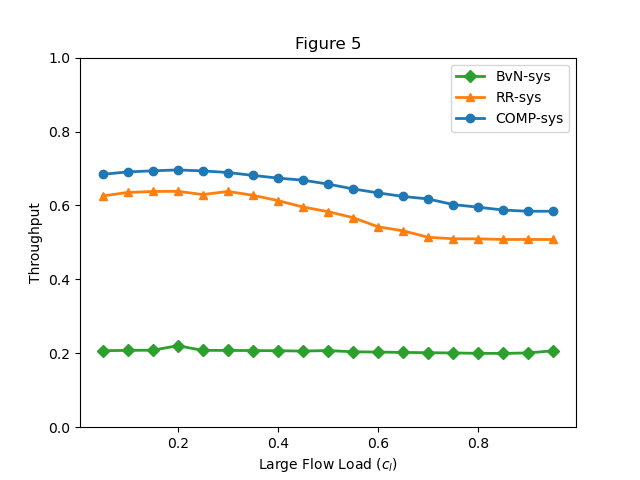
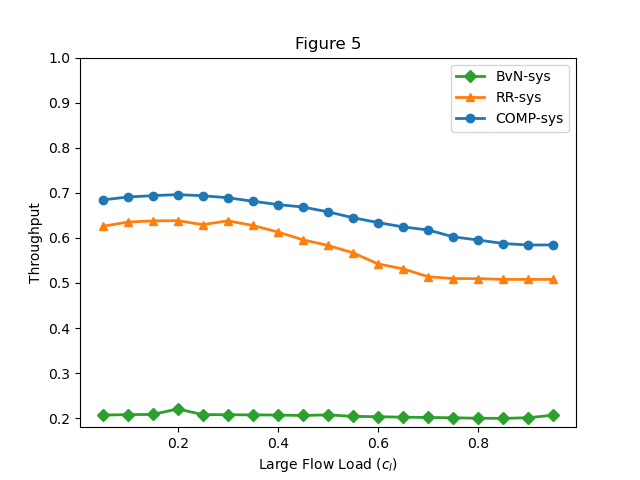
updated README.md figures and data

diff --git a/src/testing_functions.py b/src/testing_functions.py
@@ -24,7 +24,7 @@ def __float_as_string(number):
  Convert :param number to a string without the decimal point
    """
     number_str = str(number)
-    #Remove the decimal point
+    # Remove the decimal point
     if '.' in number_str:
         number_str = number_str.replace('.', '')
     return number_str
@@ -39,15 +39,15 @@ def run_test_of_total_flow_number_change(directory,
                                          given_range=(4, 16384, 1.3)
                                          ):
     """
-    This function runs the expiremnet
-    :param directory:
-    :param large_ratio:
-    :param large_load_ratio:
-    :param n:
-    :param rd:
-    :param r:
-    :param given_range:
-    :return:
+    This function tests our three systems with different total flow numbers and runs this for `number_of_runs` times
+    :param directory: directory to save the result to
+    :param large_ratio:large flow number ratio, that this large_flow_num= np.ceil(large_ratio*total_flows)
+    :param large_load_ratio: the ratio of the load of the large flows
+    :param n: number of nodes\network size
+    :param rd: Demand aware reconfiguration time
+    :param r: transmission rate
+    :param given_range: (start, end, coefficients) for the `power_range` function
+    :return: Nothing. Writes results to file
     """
     net = NetworkEval(n=n, rd=rd, r=r)
     (start, stop, coff) = given_range
@@ -56,45 +56,69 @@ def run_test_of_total_flow_number_change(directory,
     full_results = multi_run_tests(net, large_ratio, large_load_ratio,
                                    x_values, processor_to_use, number_of_runs, test_types[0])
     with open(os.path.join(directory, f"test_{test_types[0]}_LR{__float_as_string(large_ratio)}"
-                                      f"_LLR{__float_as_string(large_load_ratio)}_n{__float_as_string(n)}.json"), 'w') as f:
+                                      f"_LLR{__float_as_string(large_load_ratio)}_n{__float_as_string(n)}.json"),
+              'w') as f:
         json.dump(full_results, f, sort_keys=True, indent=4,
                   ensure_ascii=False, cls=JsonSerialize)
 
 
 def run_test_of_large_flow_load_change(directory,
                                        large_ratio=0.2,
-                                       large_flow_number=64,
+                                       flow_number=64,
                                        n=64,
                                        rd=0.01,
                                        r=10000000000,
                                        given_range=(0.05, 0.95, 19)
                                        ):
+    """
+    This function tests our three systems with different large flow load values and runs this for `number_of_runs` times
+    :param directory: directory to save the result to
+    :param large_ratio:large flow number ratio, that this large_flow_num= np.ceil(large_ratio*total_flows)
+    :param flow_number: the total number of flows
+    :param n: number of nodes\network size
+    :param rd: Demand aware reconfiguration time
+    :param r: transmission rate
+    :param given_range: (start, end, steps) for the `np.linspace` function
+    :return: Nothing. Writes results to file
+    """
     net = NetworkEval(n=n, rd=rd, r=r)
     (start, stop, steps) = given_range
     x_values = np.linspace(start, stop, steps)
     full_results = multi_run_tests(net, large_ratio, x_values,
-                                   large_flow_number, processor_to_use, number_of_runs, test_types[2])
+                                   flow_number, processor_to_use, number_of_runs, test_types[2])
     with open(os.path.join(directory, f"test_{test_types[2]}_LR{__float_as_string(large_ratio)}"
-                                      f"_FN{__float_as_string(large_flow_number)}_n{__float_as_string(n)}.json"), 'w') as f:
+                                      f"_FN{__float_as_string(flow_number)}_n{__float_as_string(n)}.json"), 'w') as f:
         json.dump(full_results, f, sort_keys=True, indent=4,
                   ensure_ascii=False, cls=JsonSerialize)
 
 
 def run_test_of_large_flow_ratio_change(directory,
                                         large_load_ratio=0.7,
-                                        large_flow_number=64,
+                                        flow_number=64,
                                         n=64,
                                         rd=0.01,
                                         r=10000000000,
                                         given_range=(0.05, 0.95, 19)
                                         ):
+    """
+    This function tests our three systems with different large flow number ratio values and runs this for
+     `number_of_runs` times
+    :param directory: directory to save the result to
+    :param large_load_ratio:the ratio of the load of the large flows
+    :param flow_number: the total number of flows
+    :param n: number of nodes / network size
+    :param rd: Demand aware reconfiguration time
+    :param r: transmission rate
+    :param given_range: (start, end, steps) for the `np.linspace` function
+    :return: Nothing. Writes results to file
+    """
     net = NetworkEval(n=n, rd=rd, r=r)
     (start, stop, steps) = given_range
     x_values = np.linspace(start, stop, steps)
     full_results = multi_run_tests(net, x_values, large_load_ratio,
-                                   large_flow_number, processor_to_use, number_of_runs, test_types[1])
+                                   flow_number, processor_to_use, number_of_runs, test_types[1])
     with open(os.path.join(directory, f"test_{test_types[1]}_LLR{__float_as_string(large_load_ratio)}"
-                                      f"_FN{__float_as_string(large_flow_number)}_n{__float_as_string(n)}.json"), 'w') as f:
+                                      f"_FN{__float_as_string(flow_number)}_n{__float_as_string(n)}.json"), 'w') as f:
         json.dump(full_results, f, sort_keys=True, indent=4,
                   ensure_ascii=False, cls=JsonSerialize)
 
@@ -102,18 +126,3 @@ def run_test_of_large_flow_ratio_change(directory,
 number_of_runs = 28
 processor_to_use = multiprocessing.cpu_count() - 1
 test_types = ("flow_number", "large_flow_ratio", "large_flow_load")
-
-#if __name__ == '__main__':
-#n = 64
-#main test
-#run_test_of_total_flow_number_change(0.2, 0.7,n=8)
-# #Test large flow load variation
-# #spars
-#run_test_of_large_flow_load_change(0.2, 64)
-# #dense
-#run_test_of_large_flow_load_change(0.2, 3000)
-# # Test large flow load variation
-# # spars
-#run_test_of_large_flow_ratio_change(large_load_ratio=0.7, large_flow_number=64)
-# # dense
-#run_test_of_large_flow_ratio_change(large_load_ratio=0.7, large_flow_number=3000)

diff --git a/main.py b/main.py
@@ -1,6 +1,6 @@
 from src.multi_proc import *
 from src.testing_functions import *
-from src.plotter import plot_figure_pivot_load
+from src.plotter import *
 
 
 def recreate_paper_results():
@@ -19,70 +19,33 @@ def recreate_paper_results():
     run_test_of_large_flow_load_change(test_res_dir_name, 0.2, 3000)
     # # Test large flow load variation
     # # spars
-    run_test_of_large_flow_ratio_change(test_res_dir_name, large_load_ratio=0.7, large_flow_number=64)
+    run_test_of_large_flow_ratio_change(test_res_dir_name, large_load_ratio=0.7, flow_number=64)
     # # dense
-    run_test_of_large_flow_ratio_change(test_res_dir_name, large_load_ratio=0.7, large_flow_number=3000)
+    run_test_of_large_flow_ratio_change(test_res_dir_name, large_load_ratio=0.7, flow_number=3000)
 
 
 if __name__ == '__main__':
-
-
+    # Run this to recreate paper results
     #recreate_paper_results()
+
+    # Get path to results dir
     file_path_flow_numbers = "test_res\\test_flow_number_LR02_LLR07_n64.json"
-
-    file_path_sparse_large_load = "..\\test_res\\test_large_flow_load_LR02_FN64_n64.json"
-    file_path_dense_large_load = "..\\test_res\\test_large_flow_load_LR02_FN3000_n64.json"
     #
-    file_path_sparse_large_ratio = "..\\test_res\\test_large_flow_ratio_LLR07_FN64_n64.json"
-    file_path_dense_large_ratio = "..\\test_res\\test_large_flow_ratio_LLR07_FN3000_n64.json"
-
-    #Set path to figuers directory
-    figuer_path = os.path.join(os.getcwd(), "figs")
-    plot_figure_pivot_load(file_path_flow_numbers, figuer_path)
-    # n = 8
-    # test_types = ("flow_number", "large_flow_ratio", "large_flow_load")
-    # #print(multiprocessing.cpu_count())
-    # x_values = power_range(4, 4 * n * n, 1.3)
-    # net = NetworkEval(n=n)
-    # start_time = time.perf_counter()
-    # #full_results = multi_run_tests(net_curr, 0.2, 0.7, x_values, 7, 28, test_types[0])
-    # x_values = np.linspace(0.05, 0.95, 19)
-    # full_results = multi_run_tests(net,0.2 , x_values, 30, 7, 28, test_types[2])
-    # #full_results = multi_run_tests(net_curr,x_values , 0.7, 10, 7, 28, test_types[1])
-    # end_time = time.perf_counter()
-    # elapsed_time = end_time - start_time
-    # print(f"Elapsed time: {elapsed_time} seconds")
-    # if n == 64:
-    #     with open(f"test_res\\n64_test_total_flows_LR02_LLR07_date1906.json", 'w') as f:
-    #         json.dump(full_results, f, sort_keys=True, indent=4,
-    #                   ensure_ascii=False, cls=json_serialize)
+    file_path_sparse_large_load = "test_res\\test_large_flow_load_LR02_FN64_n64.json"
+    file_path_dense_large_load = "test_res\\test_large_flow_load_LR02_FN3000_n64.json"
     #
-    # results = full_results["mean_res"]
-    # name_list = ("DA", "ROT", "PIV")
-    # for i, row in enumerate(np.transpose(results)):
-    #     plt.plot(x_values, 1 / row, label=f'Curve {name_list[i]}', marker='o', linestyle='-', linewidth=2)
-    #
-    # #plt.xscale('log')
-    # # Add labels and title
-    # plt.xlabel('X-axis')
-    # plt.ylabel('Y-axis')
-    # plt.title('Curves from Matrix Rows')
-    # plt.legend()
-    #
-    # plt.show()
-# net_curr = NetworkEval(n=64)
-# bir = BirkDecomp()
-#p_mat = traffic_generator(3, 7, 0.7, net_curr.n, 0.01)
-# (p, al)=bir.birk_decomp(p_mat,0.001)
-#[100,200,300,400,500,1000,2000]
+    file_path_sparse_large_ratio = "test_res\\test_large_flow_ratio_LLR07_FN64_n64.json"
+    file_path_dense_large_ratio = "test_res\\test_large_flow_ratio_LLR07_FN3000_n64.json"
 
-
-#resi1 = run_tests_flow_number(net_curr, 0.2,0.7,x_values)
-#resi2 = run_tests_flow_number(net_curr, 0.2,0.7,x_values)
-
-#print(power_range(64, 20000, 1.2))
-#results1=[d["res"] for d in resi1]
-#results2=[d["res"] for d in resi2]
-#results=[[2.3199939194375285, 1.9374882189102116, 1.246880635977973], [2.6999925928778223, 1.9374856487007812, 1.353024329568683], [2.8499926805823548, 1.9374858186283124, 1.4294522996670025], [2.909992584852229, 1.937485633151193, 1.4558973835975895], [2.9599925584390134, 1.937485581975589, 1.4727744137102814]]
-
-#print(results)
+    # Set path to figures directory
+    figure_path = os.path.join(os.getcwd(), "figs")
+    # Figures 4 a b and c
+    plot_figure_four_flow_numbers_matrix_measure(file_path_flow_numbers, figure_path)
+    plot_figure_flow_numbers_thru(file_path_flow_numbers, figure_path)
+    plot_figure_pivot_load(file_path_flow_numbers, figure_path)
+    # Figures 5 a and b
+    plot_figures_large_load_ratio_change(file_path_sparse_large_load, "Large Flow Load ($c_{l}$)", figure_path)
+    plot_figures_large_load_ratio_change(file_path_dense_large_load, "Large Flow Load ($c_{l}$)", figure_path)
+    # Figures 6 a and b
+    plot_figures_large_load_ratio_change(file_path_sparse_large_ratio, "Large Flow Ratio ($t_{l}$)", figure_path)
+    plot_figures_large_load_ratio_change(file_path_dense_large_ratio, "Large Flow Ratio ($t_{l}$)", figure_path)

diff --git a/src/plotter.py b/src/plotter.py
@@ -7,13 +7,19 @@ from src.evaluation_Functions import *
 paper_mode = True
 
 
-#some simple functions used to plot  a theortic figure
-def dct_da_cont(v, rc):
-    """The DCT of the DA system in v permutations and rc reconfiguration"""
-    return 1 + v * rc
+# #some simple functions used to plot  a theortic figure
+# def dct_da_cont(v, rc):
+#     """The DCT of the DA system in v permutations and rc reconfiguration"""
+#     return 1 + v * rc
 
 
-def plot_figure_flow_numbers_thru(data_file_path,fig_path=None):
+def plot_figure_flow_numbers_thru(data_file_path, fig_path=None):
+    """
+    This plots figure
+    :param data_file_path:
+    :param fig_path:
+    :return:
+    """
     file_path_flow_numbers = data_file_path
     with open(file_path_flow_numbers, 'r') as file:
         full_results = json.load(file)
@@ -121,7 +127,7 @@ def plot_figures_large_load_ratio_change(data_file_path, x_title: str, fig_path=
     # Add labels and title
     plt.xlabel(x_title)
     plt.ylabel('Throughput')
-    plt.ylim([0, 1])
+    plt.ylim([0.18, 1])
     test_name = full_results["parameters"]["test_name"]
     if paper_mode is True:
         if test_name != "large_flow_load":
@@ -136,28 +142,5 @@ def plot_figures_large_load_ratio_change(data_file_path, x_title: str, fig_path=
     if fig_path is not None:
         full_fig_path = os.path.join(fig_path, f"figure_{test_name}_load_type_{sparse_type}.png")
         plt.savefig(full_fig_path)
-    # plt.savefig(f"..\\figs\\.png")
     plt.show()
 
-#
-# file_path_flow_numbers = "..\\test_res\\test_flow_number_LR02_LLR07_n64.json"
-#
-# file_path_sparse_large_load = "..\\test_res\\test_large_flow_load_LR02_FN64_n64.json"
-# file_path_dense_large_load = "..\\test_res\\test_large_flow_load_LR02_FN3000_n64.json"
-#
-# file_path_sparse_large_ratio = "..\\test_res\\test_large_flow_ratio_LLR07_FN64_n64.json"
-# file_path_dense_large_ratio = "..\\test_res\\test_large_flow_ratio_LLR07_FN3000_n64.json"
-#
-# plot_figure_pivot_load(file_path_flow_numbers)
-# plot_figure_flow_numbers_thru(file_path_flow_numbers)
-# plot_figure_four_flow_numbers_matrix_measure(file_path_flow_numbers)
-#
-# plot_figures_large_load_ratio_change(file_path_sparse_large_load,"Large Flow Load ($c_{l}$)")
-# plot_figures_large_load_ratio_change(file_path_dense_large_load,"Large Flow Load ($c_{l}$)")
-# plot_figures_large_load_ratio_change(file_path_sparse_large_ratio, "Large Flow Ratio ($t_{l}$)")
-# plot_figures_large_load_ratio_change(file_path_dense_large_ratio, "Large Flow Ratio ($t_{l}$)")
-
-#current_dir = os.getcwd()
-#test_res_dir_name = os.path.join(current_dir, "test_res")
-# plot_figure_five_six(file_path_sparse_large_ratio)
-# plot_figure_five_six(file_path_dense_large_ratio)

diff --git a/scrap_book.py b/scrap_book.py
@@ -99,7 +99,7 @@ import numpy as np
 # file_path_flow_numbers = "test_res\\test_flow_number_LR02_LLR07_n3000.json"
 
 
-
+config_dict = {"number_of_runs": 28, "paper_mode": True, "number_of_cores": 7}
 # Generate some data as lists
 x = np.linspace(-5, 5, 400).tolist()
 y1 = np.sin(x).tolist()

diff --git a/README.md b/README.md
@@ -56,6 +56,10 @@ directory = "dir_to_save_results"
 run_test_of_total_flow_number_change(directory, large_ratio=0.01, large_load_ratio=0.8, n=32,rd=0.02)
 ```
 
+Running the rest of the code in `main.py` will 
+generate and save paper figures equivalent to figures 4,5 and 6.
+
+
 ## Data 
 
 The folder [test_res](.\test_res) contains 5 `.json` files.
